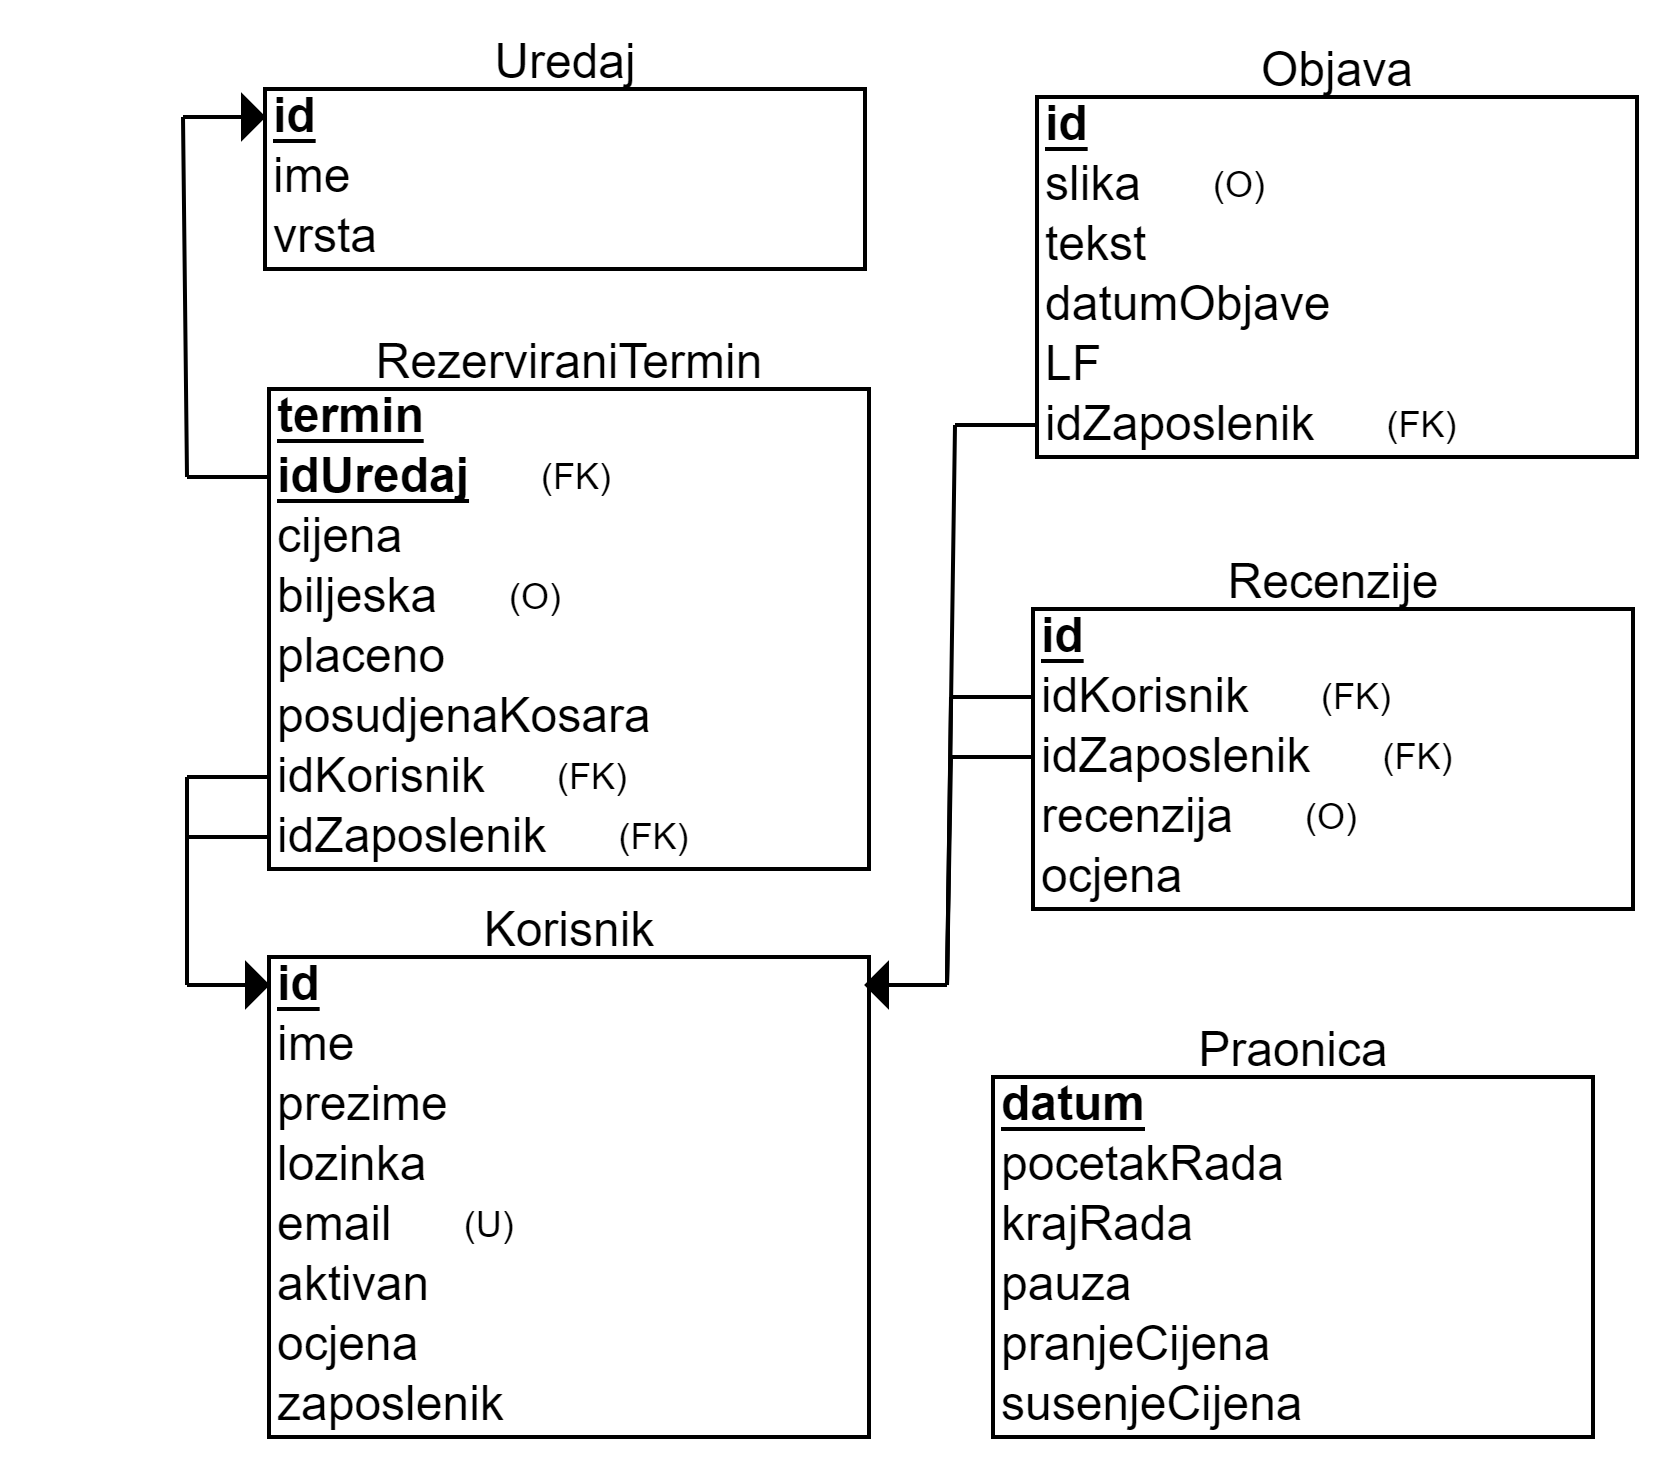
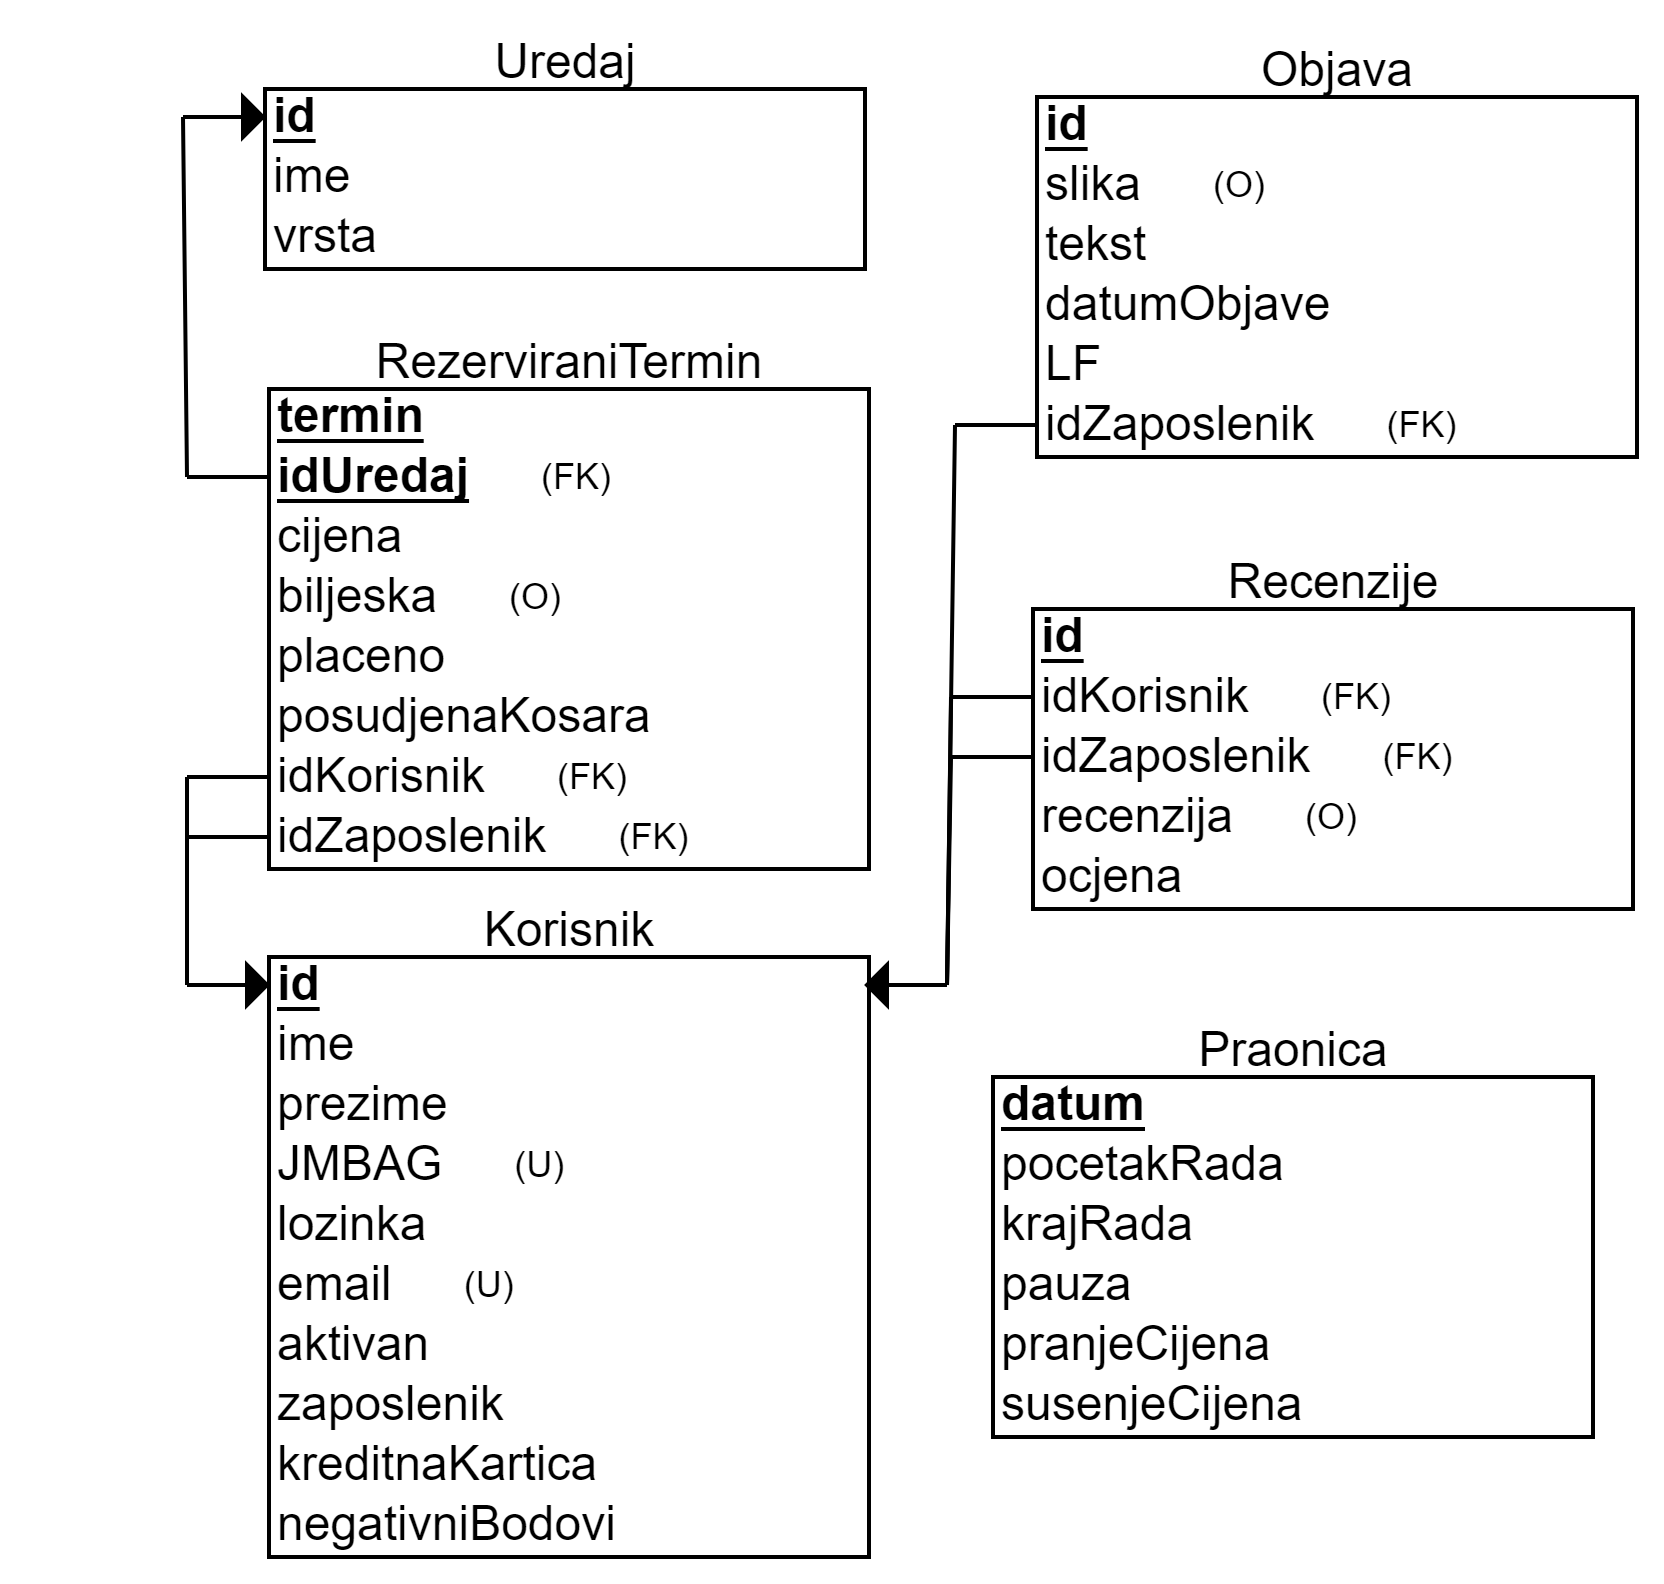
Changed Korisnik table in database

diff --git a/dokumentacija/Arhitektura.tex b/dokumentacija/Arhitektura.tex
@@ -100,11 +100,14 @@
 				\cellcolor{LightGreen}id & INT	&  Id korisnika.	\\ \hline
 				ime	& VARCHAR &   Ime korisnika.	\\ \hline 
 				prezime	& VARCHAR &   Prezime korisnika.	\\ \hline
+				JMBAG	& VARCHAR &   JMBAG korisnika.	\\ \hline
 				lozinka	& VARCHAR &   Lozinka korisničkog računa.	\\ \hline
 				email	& VARCHAR &   Jedinstveni email korisnika.	\\ \hline
 				aktivan & BOOLEAN &  Svi korisnici čije registracije su potvrđene od zaposlenika su aktivni. Administrator može blokirati korisnika i promijeniti zastavicu u 0. Neaktivni korisnici nemaju pristup uslugama praonice.\\ \hline 
 				ocjena & FLOAT &  Aritmetička sredina svih dobivenih ocjena za pojedinog djelatnika.\\ \hline 
 				zaposlenik & BOOLEAN &  Korisnici mogu biti i zaposlenici. Ako je korisnik ujedno i zaposlenik vrijednost zastavice je 1. Zaposlenici imaju više ovlasti od običnih korisnika.\\ \hline 
+				kreditnaKartica	& INT &   Broj kreditne kartice korisnika.	\\ \hline
+				negativniBodovi	& INT &   Broj negativnih bodova korisnika.	\\ \hline
 			
 				
 				

diff --git a/dokumentacija/Dnevnik_promjena_dokumentacije.tex b/dokumentacija/Dnevnik_promjena_dokumentacije.tex
@@ -24,7 +24,8 @@
 		    0.7 & Dodani obrasci uporabe za Administratora. & I. Joskić & 23.10.2020. \\[3pt] \hline
 		    0.8 & Navedeni funkcionalni zahtjevi za Zaposlenika. & M. Dragošević & 24.10.2020. \\[3pt] \hline
 		    0.9 & Dodani obrasci uporabe za Zaposlenika. & M. Dragošević & 24.10.2020. \\[3pt] \hline
-		    1.0 & Dodani opisi tablica u bazi podataka. & D. Šmigovec & 25.10.2020. \\[3pt] \hline
+		    0.10 & Dodani opisi tablica u bazi podataka. & D. Šmigovec & 25.10.2020. \\[3pt] \hline
+		    0.11 & Promjena baze podataka. & D. Šmigovec & 25.10.2020. \\[3pt] \hline
 			&  &  & \\[3pt] \hline
 			
 			
